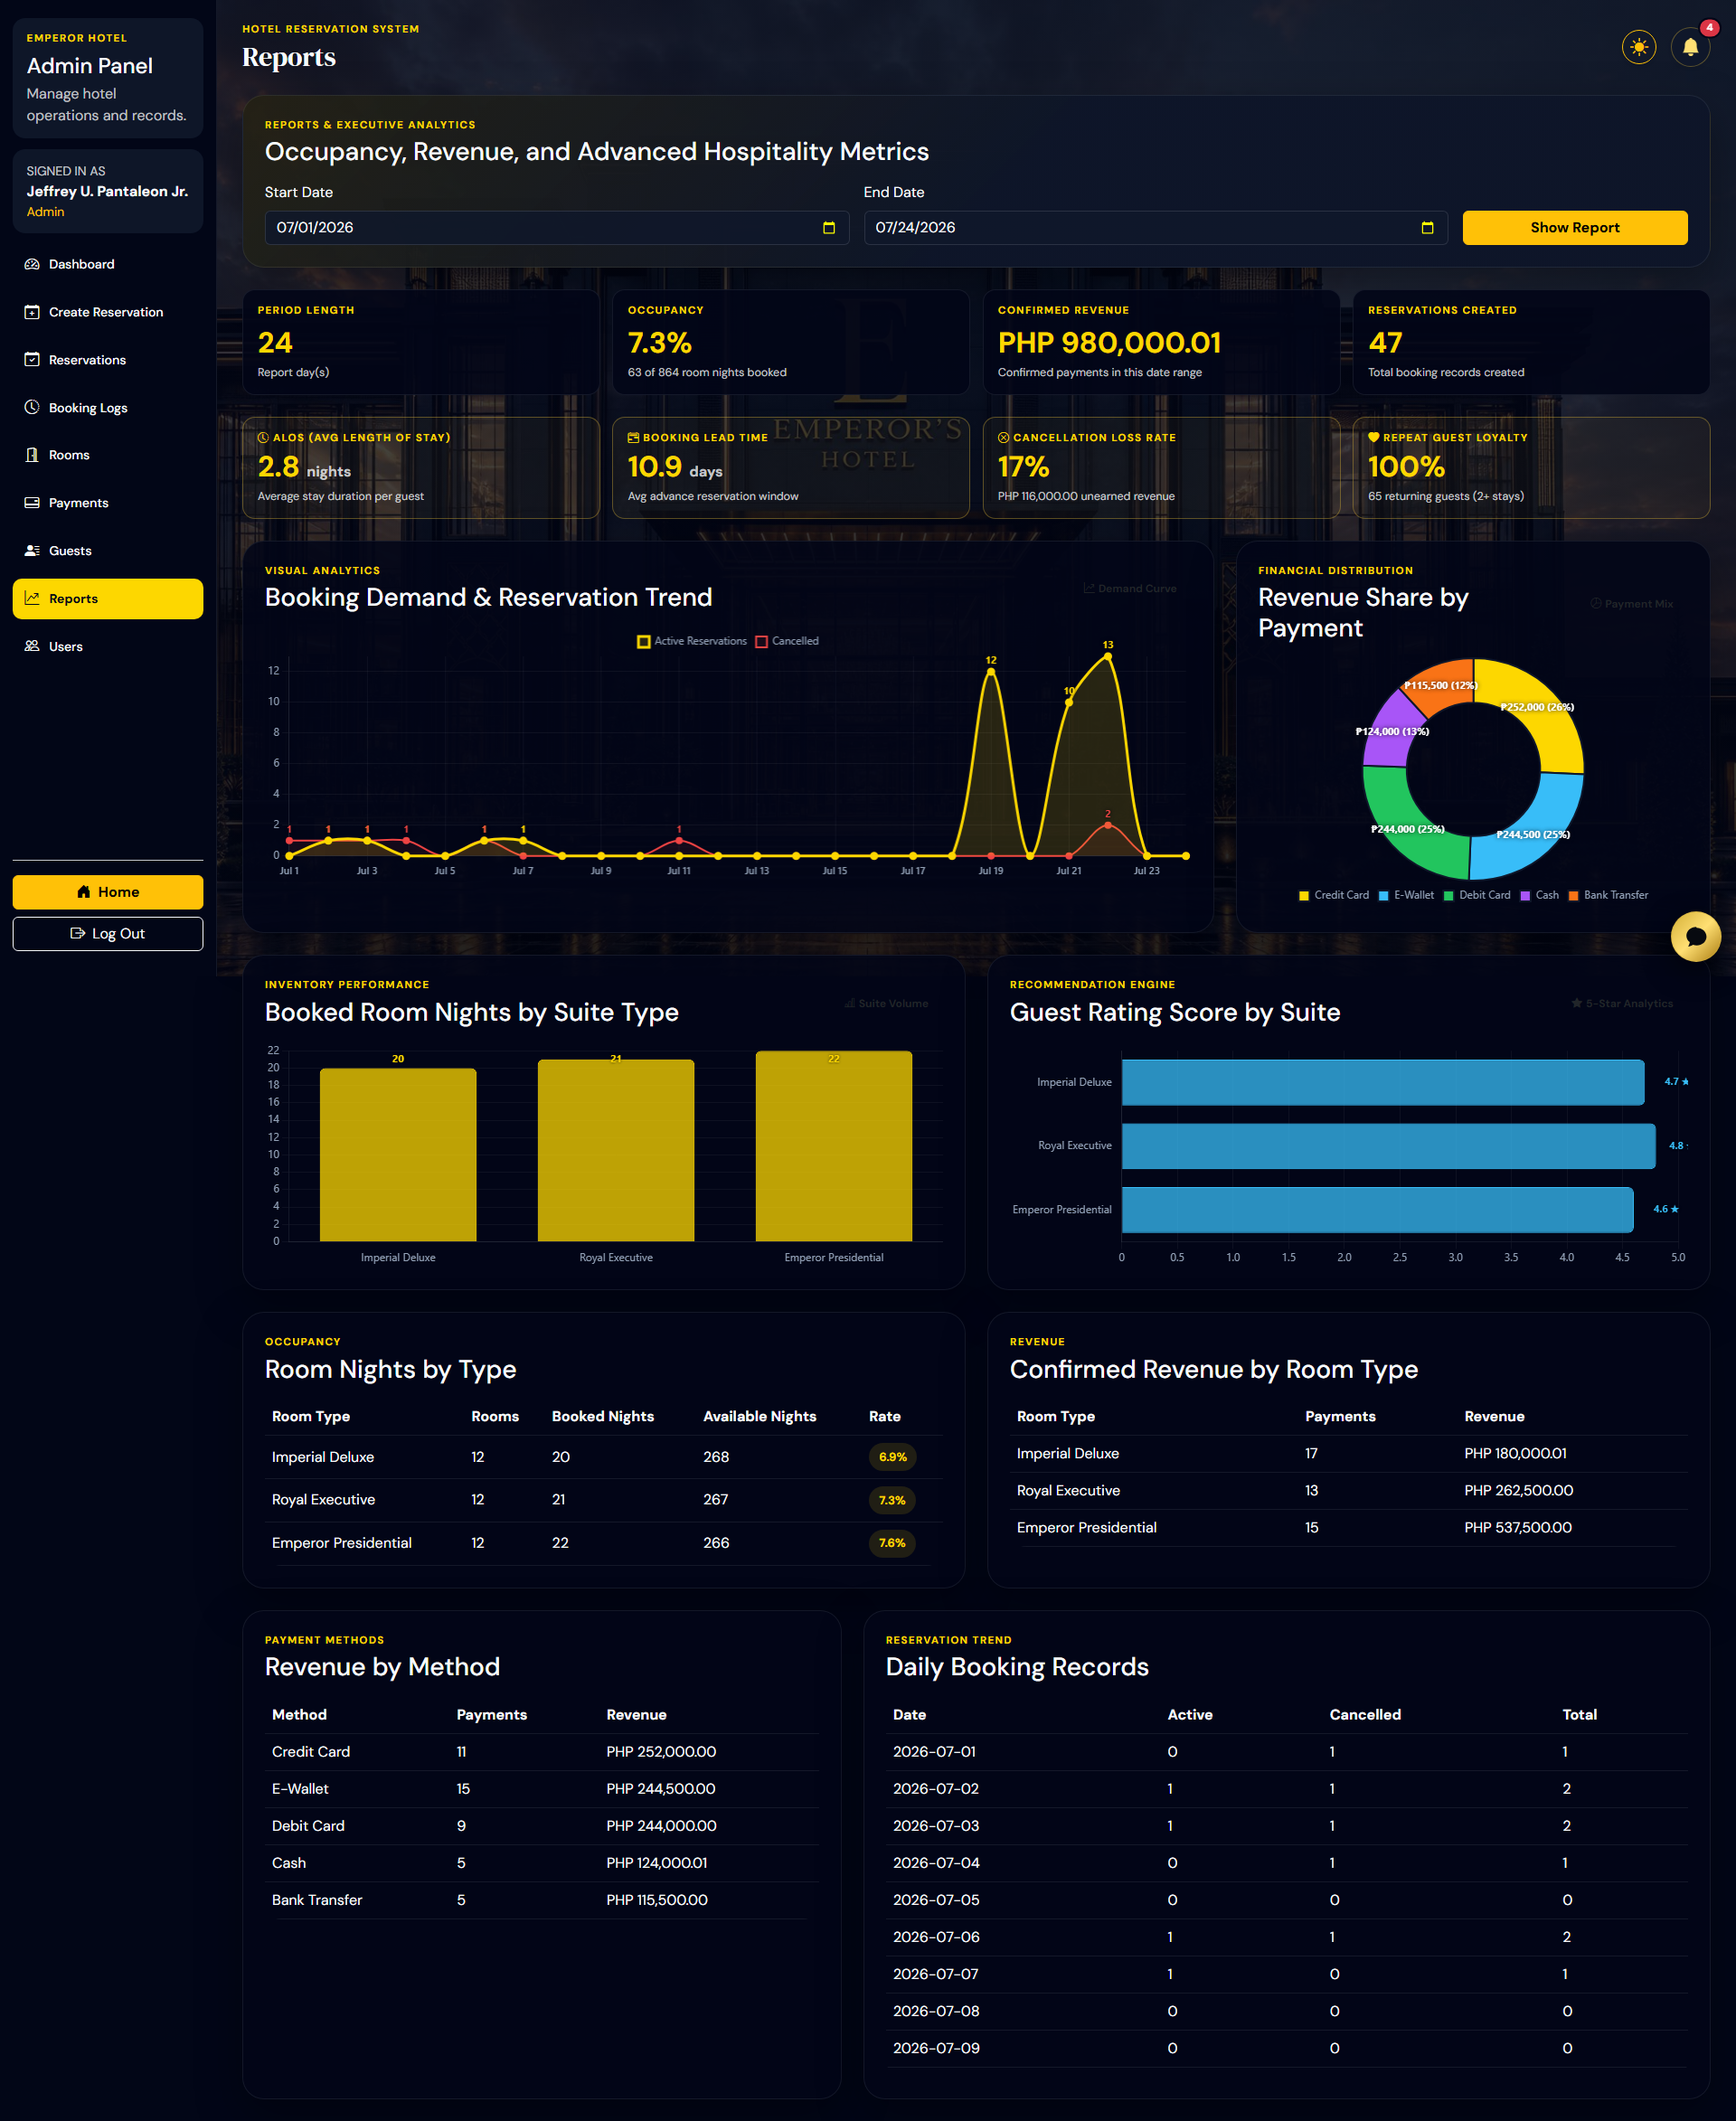
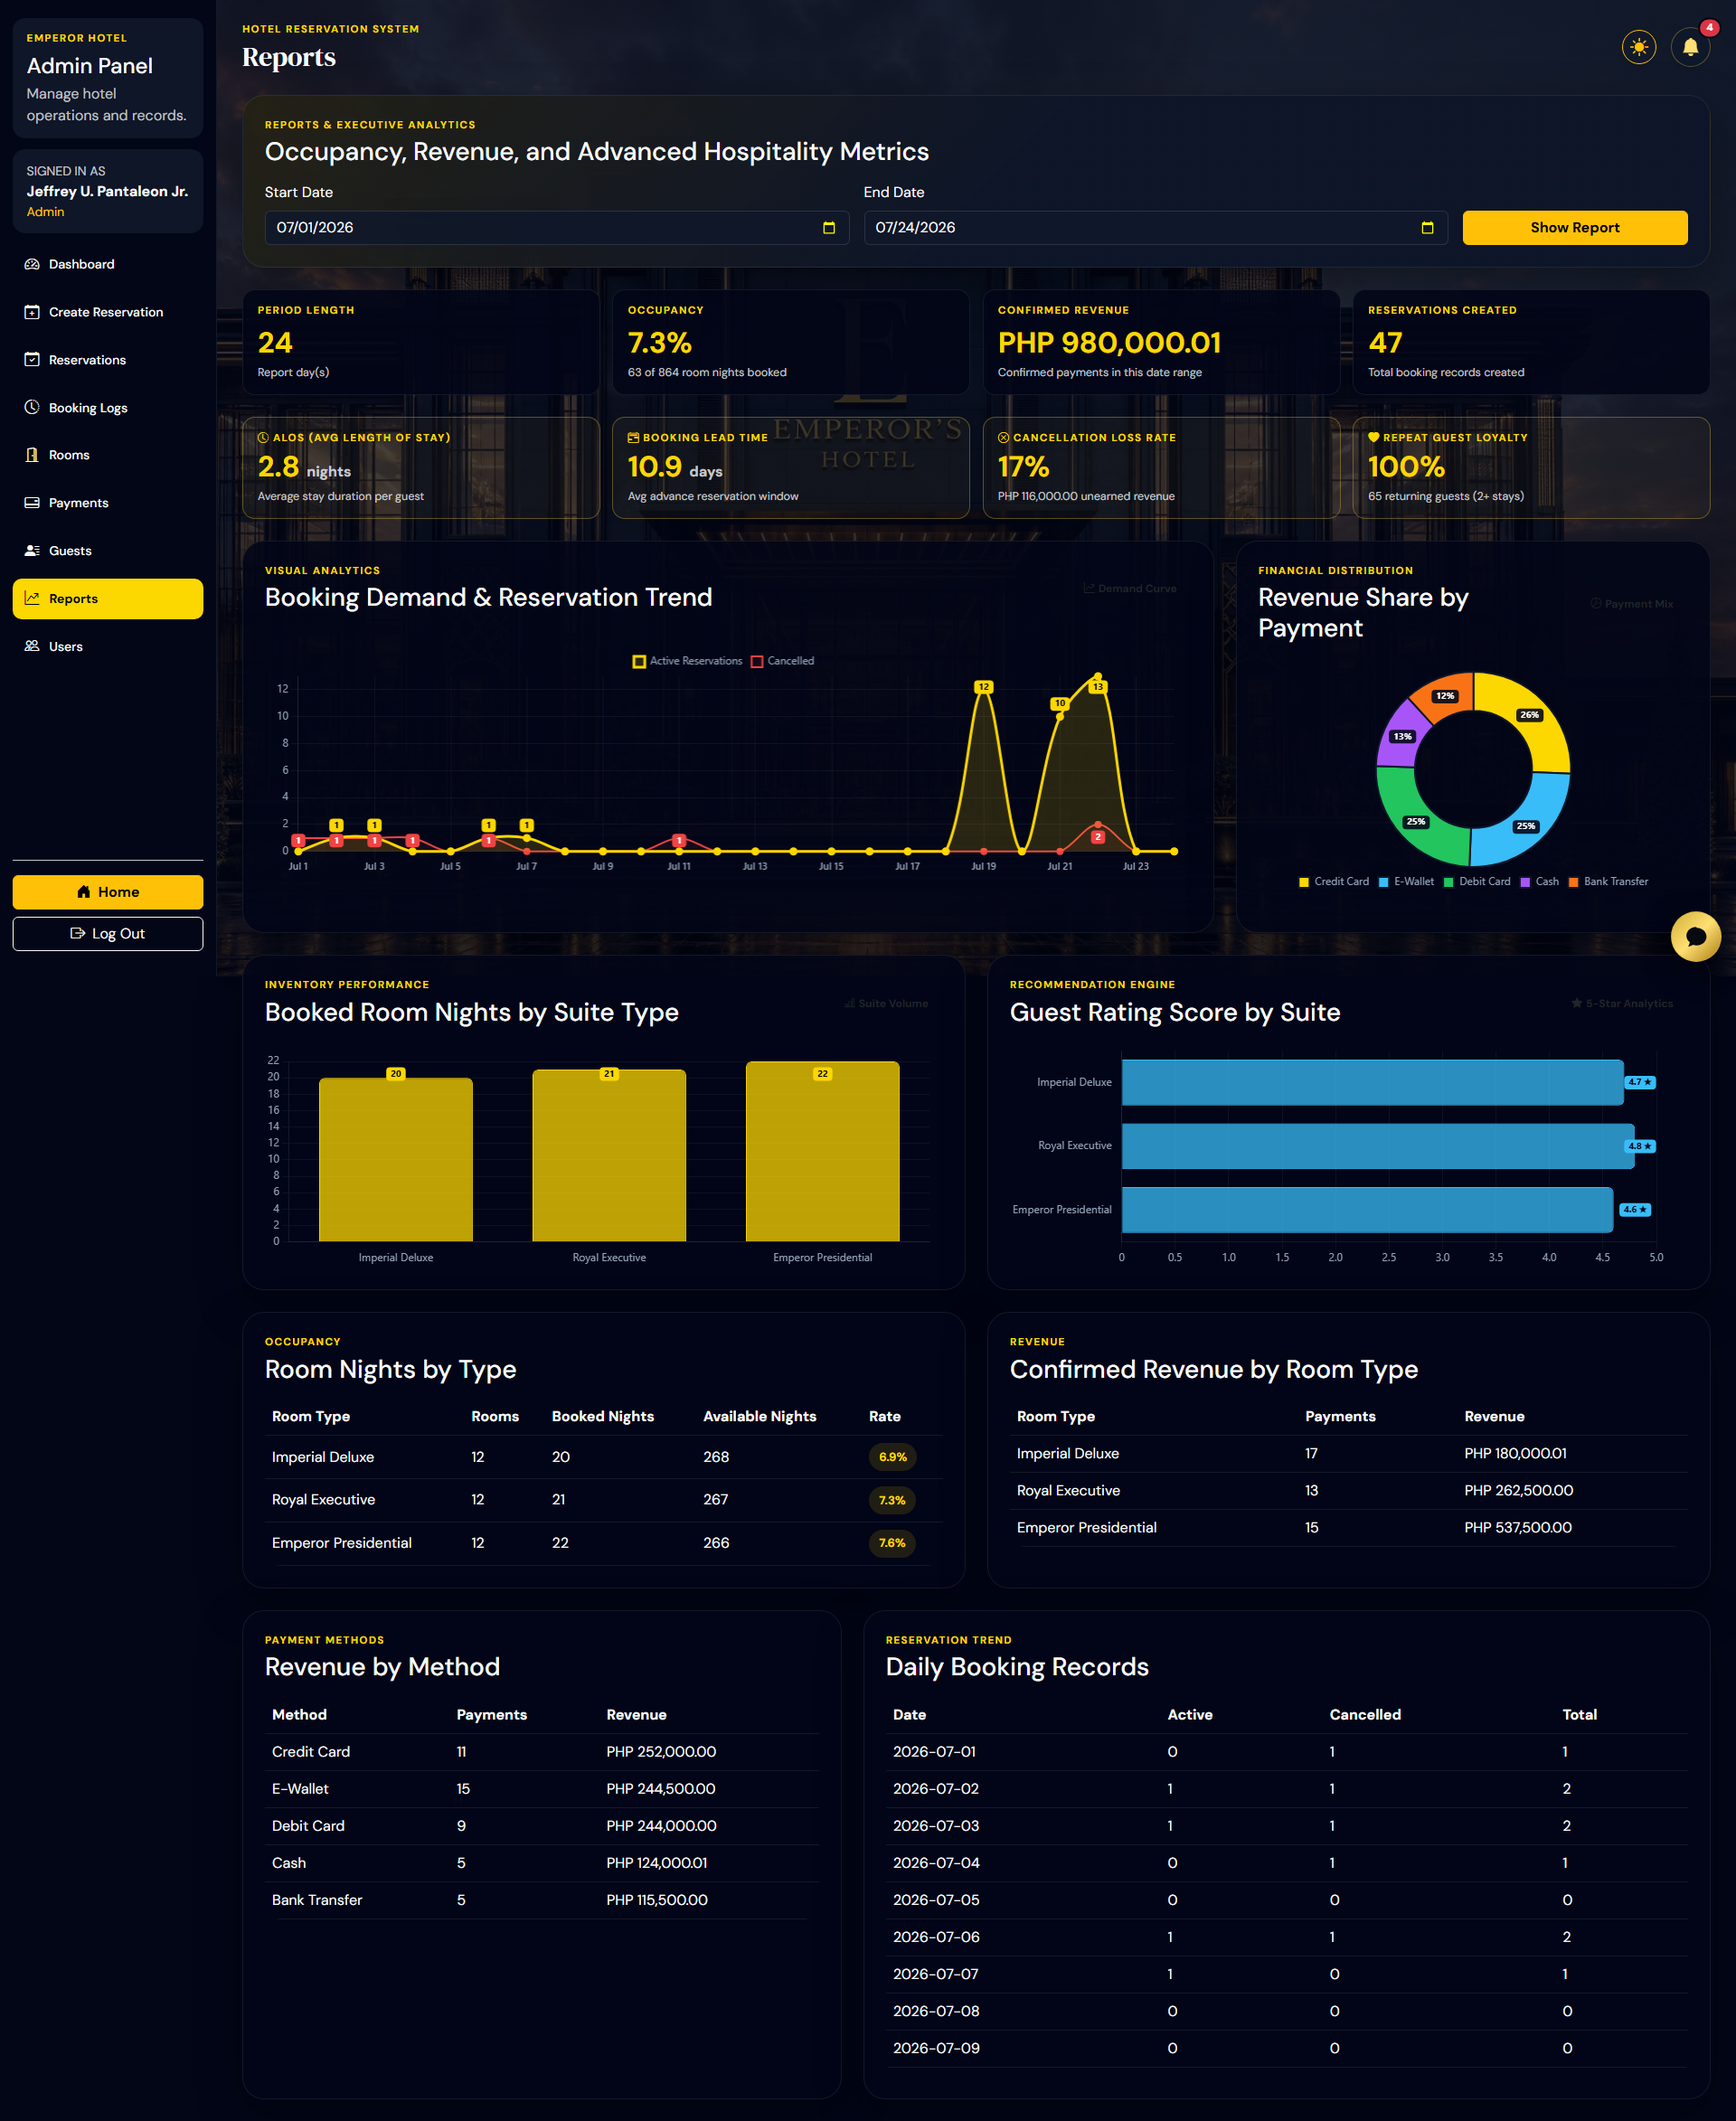
fix: resolve chart label clipping, overlaps, and legibility using high-contrast pill badges and layout padding

diff --git a/public/admin/reports.php b/public/admin/reports.php
@@ -326,11 +326,43 @@ document.addEventListener('DOMContentLoaded', () => {
     Chart.defaults.borderColor = isLightMode ? 'rgba(15, 23, 42, 0.08)' : 'rgba(248, 250, 252, 0.08)';
     Chart.defaults.font.family = "'Outfit', 'Segoe UI', system-ui, sans-serif";
 
+    // High-Contrast Pill Badge Renderer for Chart Labels
+    const drawPillBadge = (ctx, text, x, y, bgColor, textColor) => {
+        ctx.save();
+        ctx.font = '700 10px "Outfit", "Segoe UI", system-ui, sans-serif';
+        const metrics = ctx.measureText(text);
+        const textWidth = metrics.width;
+        const textHeight = 11;
+        const px = 5;
+        const py = 2;
+        const rectX = x - textWidth / 2 - px;
+        const rectY = y - textHeight / 2 - py;
+        const rectW = textWidth + px * 2;
+        const rectH = textHeight + py * 2;
+        const radius = 4;
+
+        ctx.fillStyle = bgColor;
+        ctx.beginPath();
+        if (ctx.roundRect) {
+            ctx.roundRect(rectX, rectY, rectW, rectH, radius);
+        } else {
+            ctx.rect(rectX, rectY, rectW, rectH);
+        }
+        ctx.fill();
+
+        ctx.fillStyle = textColor;
+        ctx.textAlign = 'center';
+        ctx.textBaseline = 'middle';
+        ctx.fillText(text, x, y);
+        ctx.restore();
+    };
+
     // Value Labels Plugin for Line and Bar Charts
     const emperorValuePlugin = {
         id: 'emperorValueLabels',
         afterDatasetsDraw(chart) {
-            const { ctx } = chart;
+            const { ctx, chartArea } = chart;
+            if (!chartArea) return;
             const isLight = document.documentElement.classList.contains('light-mode');
 
             chart.data.datasets.forEach((dataset, datasetIndex) => {
@@ -341,46 +373,33 @@ document.addEventListener('DOMContentLoaded', () => {
                     const value = dataset.data[index];
                     if (value === null || value === undefined || value === 0) return;
 
-                    ctx.save();
-                    ctx.font = '700 11px "Outfit", "Segoe UI", system-ui, sans-serif';
-                    ctx.textAlign = 'center';
-                    ctx.textBaseline = 'middle';
-
                     if (chart.config.type === 'line') {
                         const text = String(value);
                         const x = element.x;
-                        const y = element.y - 12;
-                        ctx.fillStyle = dataset.borderColor || (isLight ? '#0f172a' : '#fdd700');
-                        ctx.shadowColor = isLight ? 'rgba(255,255,255,0.9)' : 'rgba(0,0,0,0.9)';
-                        ctx.shadowBlur = 4;
-                        ctx.fillText(text, x, y);
+                        const yOffset = datasetIndex === 0 ? -14 : 14;
+                        const y = Math.max(chartArea.top + 12, Math.min(chartArea.bottom - 12, element.y + yOffset));
+                        const bgColor = datasetIndex === 0 ? '#fdd700' : '#ef4444';
+                        const textColor = datasetIndex === 0 ? '#020617' : '#ffffff';
+                        drawPillBadge(ctx, text, x, y, bgColor, textColor);
                     } else if (chart.config.type === 'bar') {
                         if (chart.options.indexAxis === 'y') {
                             const text = typeof value === 'number' ? value.toFixed(1) + ' ★' : String(value);
-                            const x = Math.min(element.x + 22, chart.chartArea.right - 10);
+                            const x = Math.min(element.x + 24, chartArea.right - 18);
                             const y = element.y;
-                            ctx.fillStyle = isLight ? '#0284c7' : '#38bdf8';
-                            ctx.textAlign = 'left';
-                            ctx.shadowColor = isLight ? 'rgba(255,255,255,0.8)' : 'rgba(0,0,0,0.8)';
-                            ctx.shadowBlur = 3;
-                            ctx.fillText(text, x, y);
+                            drawPillBadge(ctx, text, x, y, isLight ? '#0284c7' : '#38bdf8', '#020617');
                         } else {
                             const text = typeof value === 'number' ? value.toLocaleString() : String(value);
                             const x = element.x;
-                            const y = Math.max(element.y - 12, chart.chartArea.top + 10);
-                            ctx.fillStyle = isLight ? '#b45309' : '#fdd700';
-                            ctx.shadowColor = isLight ? 'rgba(255,255,255,0.8)' : 'rgba(0,0,0,0.8)';
-                            ctx.shadowBlur = 3;
-                            ctx.fillText(text, x, y);
+                            const y = Math.max(chartArea.top + 14, element.y - 12);
+                            drawPillBadge(ctx, text, x, y, isLight ? '#b45309' : '#fdd700', '#020617');
                         }
                     }
-                    ctx.restore();
                 });
             });
         }
     };
 
-    // Doughnut Labels Plugin
+    // Doughnut Percentage Pill Plugin
     const emperorDoughnutPlugin = {
         id: 'emperorDoughnutLabels',
         afterDatasetsDraw(chart) {
@@ -398,20 +417,11 @@ document.addEventListener('DOMContentLoaded', () => {
                 if (!value || total <= 0) return;
 
                 const percent = Math.round((value / total) * 100);
-                if (percent < 3) return;
+                if (percent < 4) return;
 
                 const position = element.tooltipPosition();
-                ctx.save();
-                ctx.font = '700 11px "Outfit", "Segoe UI", system-ui, sans-serif';
-                ctx.fillStyle = '#ffffff';
-                ctx.textAlign = 'center';
-                ctx.textBaseline = 'middle';
-                ctx.shadowColor = 'rgba(0, 0, 0, 0.9)';
-                ctx.shadowBlur = 5;
-
-                const text = '₱' + Math.round(value).toLocaleString() + ' (' + percent + '%)';
-                ctx.fillText(text, position.x, position.y);
-                ctx.restore();
+                const text = percent + '%';
+                drawPillBadge(ctx, text, position.x, position.y, 'rgba(2, 6, 23, 0.88)', '#ffffff');
             });
         }
     };
@@ -450,6 +460,7 @@ document.addEventListener('DOMContentLoaded', () => {
             options: {
                 responsive: true,
                 maintainAspectRatio: false,
+                layout: { padding: { top: 22, right: 20, left: 10, bottom: 5 } },
                 plugins: {
                     legend: { position: 'top', labels: { boxWidth: 12 } }
                 },
@@ -488,6 +499,7 @@ document.addEventListener('DOMContentLoaded', () => {
             options: {
                 responsive: true,
                 maintainAspectRatio: false,
+                layout: { padding: { top: 15, bottom: 15 } },
                 plugins: {
                     legend: { position: 'bottom', labels: { boxWidth: 12 } }
                 },
@@ -516,6 +528,7 @@ document.addEventListener('DOMContentLoaded', () => {
             options: {
                 responsive: true,
                 maintainAspectRatio: false,
+                layout: { padding: { top: 22, right: 15 } },
                 plugins: { legend: { display: false } },
                 scales: {
                     x: { grid: { display: false } },
@@ -546,6 +559,7 @@ document.addEventListener('DOMContentLoaded', () => {
                 responsive: true,
                 maintainAspectRatio: false,
                 indexAxis: 'y',
+                layout: { padding: { right: 35 } },
                 plugins: { legend: { display: false } },
                 scales: {
                     x: { max: 5.0, min: 0, grid: { color: 'rgba(248, 250, 252, 0.05)' } },
